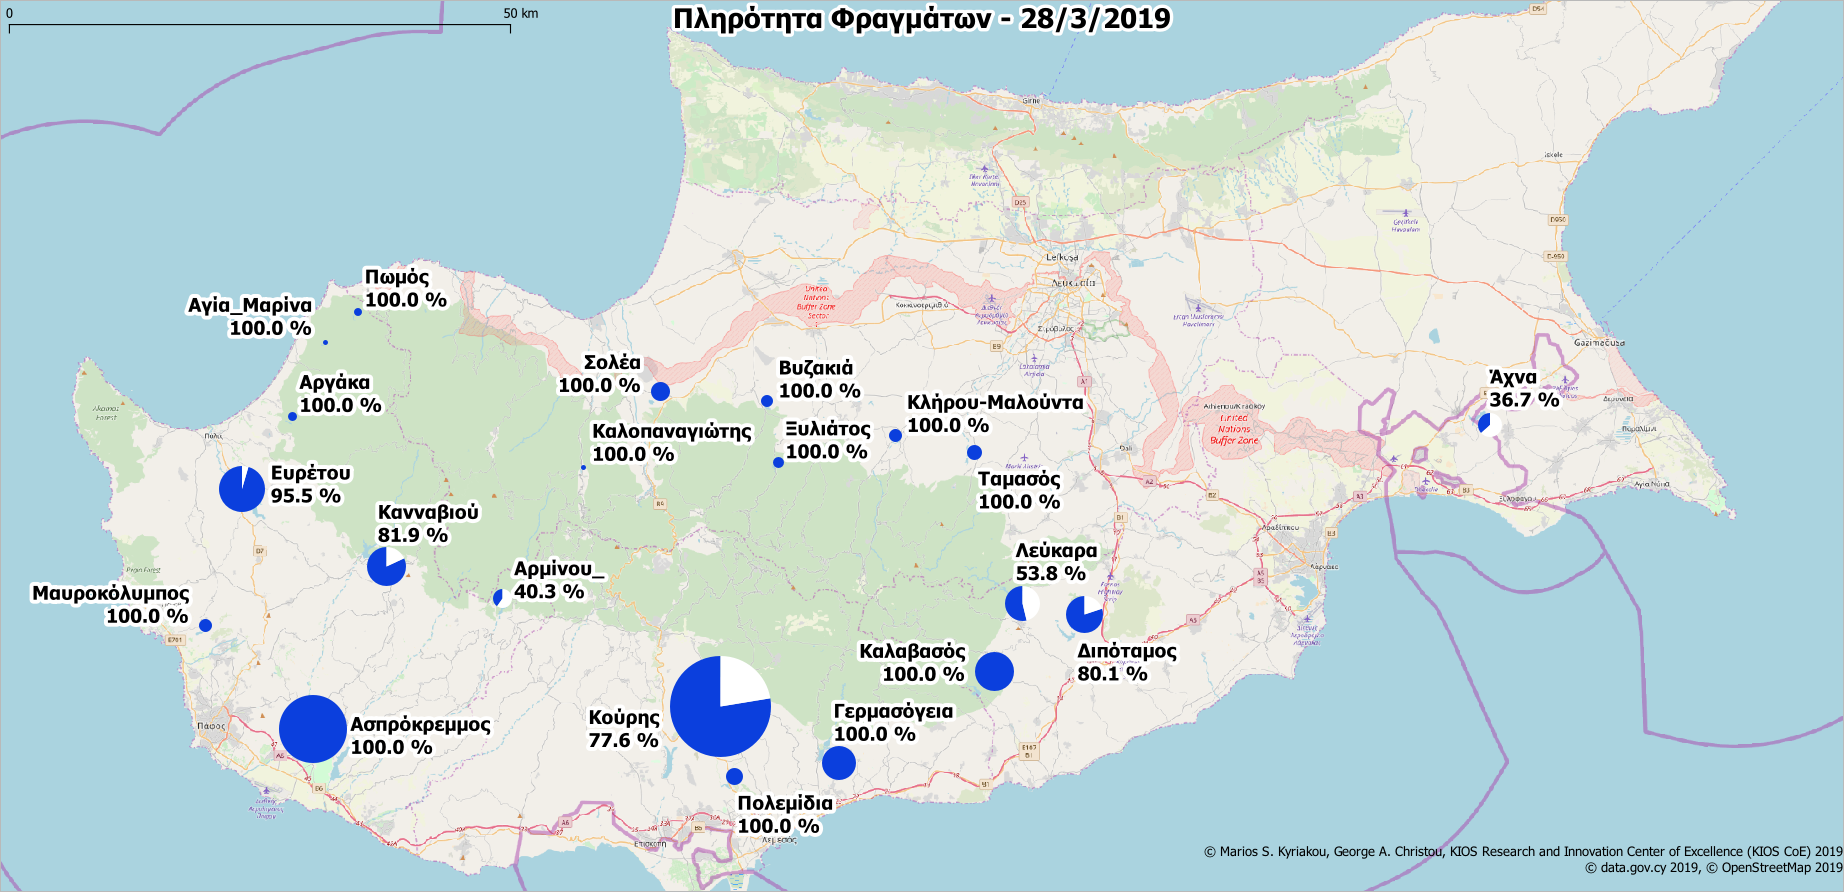
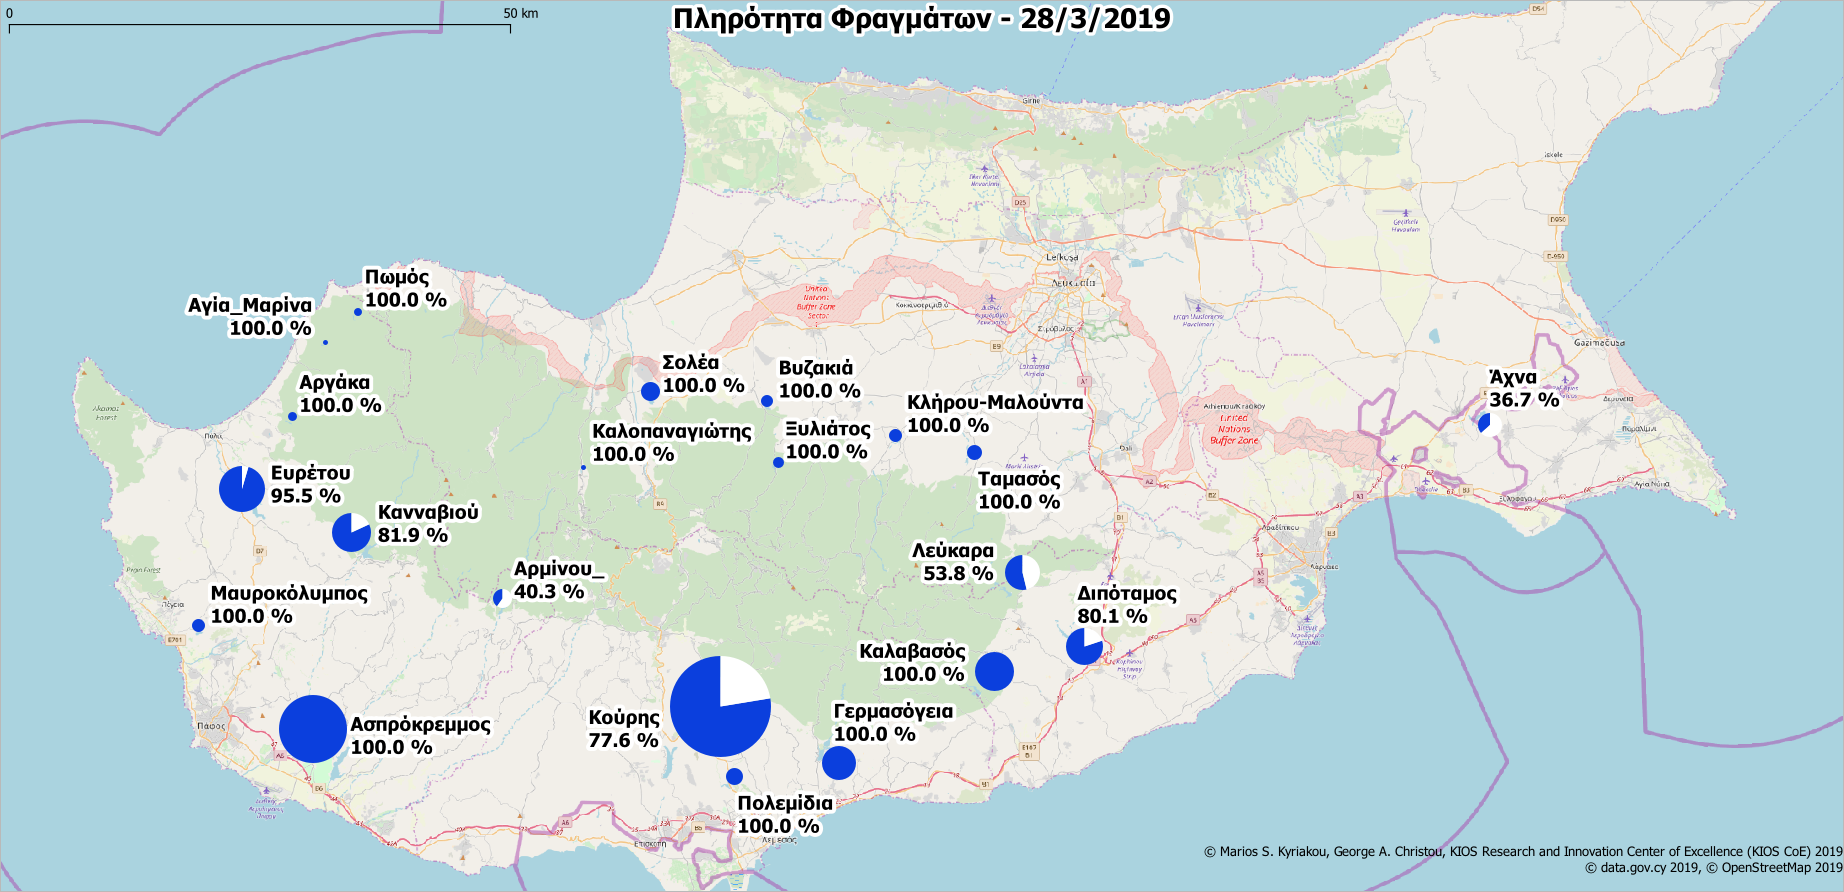
update

Changed region(s): [[0.4946, 0.6054, 0.6491, 0.787], [0.0, 0.5751, 0.2164, 0.7265], [0.2782, 0.3935, 0.4018, 0.454]]

diff --git a/dams.html b/dams.html
@@ -14,7 +14,7 @@
 <th width="60"><b>Capacity (MCM)</b></th>
 <th width="60"><b>CurrentStorage (MCM)</b></th>
 <th width="60"><b>CurrentStorage (%)</b></th>
-</tr><tr><td>1</td><td>Κούρης</td><td>115.0</td><td>89.259</td><td>77.6</td></tr><tr><tr><td>2</td><td>Ασπρόκρεμμος</td><td>52.375</td><td>52.375</td><td>100.0</td></tr><tr><tr><td>3</td><td>Ευρέτου</td><td>24.0</td><td>22.912</td><td>95.5</td></tr><tr><tr><td>4</td><td>Κανναβιού</td><td>17.168</td><td>14.054</td><td>81.9</td></tr><tr><tr><td>5</td><td>Καλαβασός</td><td>17.1</td><td>17.1</td><td>100.0</td></tr><tr><tr><td>6</td><td>Διπόταμος</td><td>15.5</td><td>12.416</td><td>80.1</td></tr><tr><tr><td>7</td><td>Λεύκαρα</td><td>13.85</td><td>7.453</td><td>53.8</td></tr><tr><tr><td>8</td><td>Γερμασόγεια</td><td>13.5</td><td>13.5</td><td>100.0</td></tr><tr><tr><td>9</td><td>Άχνα</td><td>6.8</td><td>2.497</td><td>36.7</td></tr><tr><tr><td>10</td><td>Σολέα</td><td>4.454</td><td>4.454</td><td>100.0</td></tr><tr><tr><td>11</td><td>Αρμίνου </td><td>4.3</td><td>1.733</td><td>40.3</td></tr><tr><tr><td>12</td><td>Πολεμίδια</td><td>3.4</td><td>3.4</td><td>100.0</td></tr><tr><tr><td>13</td><td>Ταμασός</td><td>2.8</td><td>2.8</td><td>100.0</td></tr><tr><tr><td>14</td><td>Μαυροκόλυμπος</td><td>2.18</td><td>2.18</td><td>100.0</td></tr><tr><tr><td>15</td><td>Κλήρου-Μαλούντα</td><td>2.0</td><td>2.0</td><td>100.0</td></tr><tr><tr><td>16</td><td>Βυζακιά</td><td>1.69</td><td>1.69</td><td>100.0</td></tr><tr><tr><td>17</td><td>Ξυλιάτος</td><td>1.43</td><td>1.43</td><td>100.0</td></tr><tr><tr><td>18</td><td>Αργάκα</td><td>0.99</td><td>0.99</td><td>100.0</td></tr><tr><tr><td>19</td><td>Πωμός</td><td>0.86</td><td>0.86</td><td>100.0</td></tr><tr><tr><td>20</td><td>Καλοπαναγιώτης</td><td>0.363</td><td>0.363</td><td>100.0</td></tr><tr><tr><td>21</td><td>Αγία Μαρίνα</td><td>0.298</td><td>0.298</td><td>100.0</td></tr><tr>
+</tr><tr><td>1</td><td>Κούρης</td><td>115.0</td><td>89.684</td><td>77.9860869565</td></tr><tr><tr><td>2</td><td>Κούρης</td><td>115.0</td><td>89.259</td><td>77.6</td></tr><tr><tr><td>3</td><td>Ασπρόκρεμμος</td><td>52.375</td><td>52.375</td><td>100.0</td></tr><tr><tr><td>4</td><td>Ευρέτου</td><td>24.0</td><td>22.912</td><td>95.5</td></tr><tr><tr><td>5</td><td>Κανναβιού</td><td>17.168</td><td>14.054</td><td>81.9</td></tr><tr><tr><td>6</td><td>Καλαβασός</td><td>17.1</td><td>17.1</td><td>100.0</td></tr><tr><tr><td>7</td><td>Καλαβασός</td><td>17.1</td><td>17.1</td><td>100.0</td></tr><tr><tr><td>8</td><td>Διπόταμος</td><td>15.5</td><td>12.468</td><td>80.4387096774</td></tr><tr><tr><td>9</td><td>Διπόταμος</td><td>15.5</td><td>12.416</td><td>80.1</td></tr><tr><tr><td>10</td><td>Λεύκαρα</td><td>13.85</td><td>7.466</td><td>53.9061371841</td></tr><tr><tr><td>11</td><td>Λεύκαρα</td><td>13.85</td><td>7.453</td><td>53.8</td></tr><tr><tr><td>12</td><td>Γερμασόγεια</td><td>13.5</td><td>13.5</td><td>100.0</td></tr><tr><tr><td>13</td><td>Γερμασόγεια</td><td>13.5</td><td>13.5</td><td>100.0</td></tr><tr><tr><td>14</td><td>Άχνα</td><td>6.8</td><td>2.485</td><td>36.5441176471</td></tr><tr><tr><td>15</td><td>Σολέα</td><td>4.454</td><td>4.454</td><td>100.0</td></tr><tr><tr><td>16</td><td>Αρμίνου </td><td>4.3</td><td>1.66</td><td>38.6046511628</td></tr><tr><tr><td>17</td><td>Αρμίνου </td><td>4.3</td><td>1.733</td><td>40.3</td></tr><tr><tr><td>18</td><td>Πολεμίδια</td><td>3.4</td><td>3.4</td><td>100.0</td></tr><tr><tr><td>19</td><td>Πολεμίδια</td><td>3.4</td><td>3.4</td><td>100.0</td></tr><tr><tr><td>20</td><td>Ταμασός</td><td>2.8</td><td>2.8</td><td>100.0</td></tr><tr><tr><td>21</td><td>Μαυροκόλυμπος</td><td>2.18</td><td>2.18</td><td>100.0</td></tr><tr><tr><td>22</td><td>Κλήρου-Μαλούντα</td><td>2.0</td><td>2.0</td><td>100.0</td></tr><tr><tr><td>23</td><td>Βυζακιά</td><td>1.69</td><td>1.69</td><td>100.0</td></tr><tr><tr><td>24</td><td>Ξυλιάτος</td><td>1.43</td><td>1.43</td><td>100.0</td></tr><tr><tr><td>25</td><td>Αργάκα</td><td>0.99</td><td>0.99</td><td>100.0</td></tr><tr><tr><td>26</td><td>Πωμός</td><td>0.86</td><td>0.86</td><td>100.0</td></tr><tr><tr><td>27</td><td>Καλοπαναγιώτης</td><td>0.363</td><td>0.363</td><td>100.0</td></tr><tr><tr><td>28</td><td>Αγία Μαρίνα</td><td>0.298</td><td>0.298</td><td>100.0</td></tr><tr>
 </tr>
 <tr>
 <td></td>
